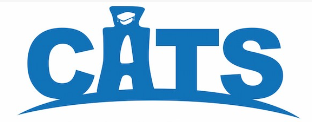
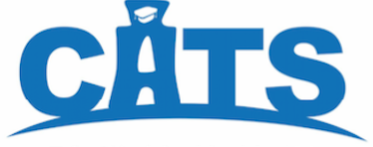
2016-12-27

Changed region(s): [[0.0, 0.0, 0.9808, 0.9836]]

diff --git a/pages/login.html b/pages/login.html
@@ -1,0 +1,63 @@
+<!DOCTYPE html>
+<html lang="en">
+
+	<head>
+		<meta charset="utf-8">
+		<meta http-equiv="X-UA-Compatible" content="IE=edge">
+		<title>cats后台管理登录页</title>
+		<link rel="import" href="common/js_css.html" />
+	</head>
+
+	<body data-type="login">
+		<div class="am-g tpl-g">
+			<!-- 风格切换 -->
+			<div class="tpl-skiner">
+				<div class="tpl-skiner-toggle am-icon-cog">
+				</div>
+				<div class="tpl-skiner-content">
+					<div class="tpl-skiner-content-title">
+						选择主题
+					</div>
+					<div class="tpl-skiner-content-bar">
+						<span class="skiner-color skiner-white" data-color="theme-white"></span>
+						<span class="skiner-color skiner-black" data-color="theme-black"></span>
+					</div>
+				</div>
+			</div>
+			<div class="tpl-login">
+				<div class="tpl-login-content">
+					<div class="tpl-login-logo">
+
+					</div>
+
+					<form class="am-form tpl-form-line-form">
+						<div class="am-form-group">
+							<input type="text" class="tpl-form-input" id="user-name" placeholder="请输入账号">
+
+						</div>
+
+						<div class="am-form-group">
+							<input type="password" class="tpl-form-input" id="user-name" placeholder="请输入密码">
+
+						</div>
+						<div class="am-form-group tpl-login-remember-me">
+							<input id="remember-me" type="checkbox">
+							<label for="remember-me">
+       
+                        记住密码
+                         </label>
+
+						</div>
+
+						<div class="am-form-group">
+
+							<button type="button" class="am-btn am-btn-primary  am-btn-block tpl-btn-bg-color-success  tpl-login-btn">提交</button>
+
+						</div>
+					</form>
+				</div>
+			</div>
+		</div>
+	</body>
+
+</html>

diff --git a/assets/css/app.css b/assets/css/app.css
@@ -599,8 +599,8 @@ ul.tpl-dropdown-content .tpl-dropdown-menu-messages-item .menu-messages-content 
   width: 100%;
 }
 .tpl-login-logo {
-  max-width: 159px;
-  height: 205px;
+  max-width: 800px;
+  height: 200px;
   margin: 0 auto;
   margin-bottom: 20px;
 }
@@ -727,7 +727,7 @@ ul.tpl-dropdown-content .tpl-dropdown-menu-messages-item .menu-messages-content 
   padding: 6px 0;
 }
 .theme-white .tpl-login-logo {
-  background: url(../img/logoa.png) center no-repeat;
+  background: url(../img/cats_login_a.png) center no-repeat;
 }
 .theme-white .sub-active {
   color: #23abf0!important;
@@ -1338,7 +1338,7 @@ ul.tpl-dropdown-content .tpl-dropdown-menu-messages-item .menu-messages-content 
   padding: 6px 0;
 }
 .theme-black .tpl-login-logo {
-  background: url(../img/logob.png) center no-repeat;
+  background: url(../img/cats_login_b.png) center no-repeat;
 }
 .theme-black .tpl-table-line-img {
   max-width: 100px;

diff --git a/pages/product.html b/pages/product.html
@@ -4,11 +4,11 @@
 	<head>
 		<meta charset="utf-8">
 		<meta http-equiv="X-UA-Compatible" content="IE=edge">
-		<title>cats后台管理</title>
+		<title>cats后台产品管理</title>
 		<link rel="import" href="common/js_css.html" />
 	</head>
 
-	<body data-type="index">
+	<body data-type="product">
 		<div class="am-g tpl-g">
 			<!-- 头部 -->
 			<header>

diff --git a/pages/home.html b/pages/home.html
@@ -4,11 +4,11 @@
 	<head>
 		<meta charset="utf-8">
 		<meta http-equiv="X-UA-Compatible" content="IE=edge">
-		<title>cats后台管理</title>
+		<title>cats后台管理首页</title>
 		<link rel="import" href="common/js_css.html" />
 	</head>
 
-	<body data-type="index">
+	<body data-type="home">
 		<div class="am-g tpl-g">
 			<!-- 头部 -->
 			<header>

diff --git a/pages/frame.html b/pages/frame.html
@@ -8,7 +8,7 @@
 		<link rel="import" href="common/js_css.html" />
 	</head>
 
-	<body data-type="index">
+	<body data-type="frame">
 		<div class="am-g tpl-g">
 			<!-- 头部 -->
 			<header>
